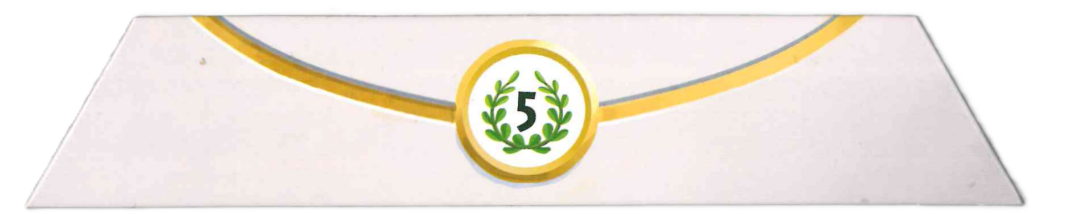
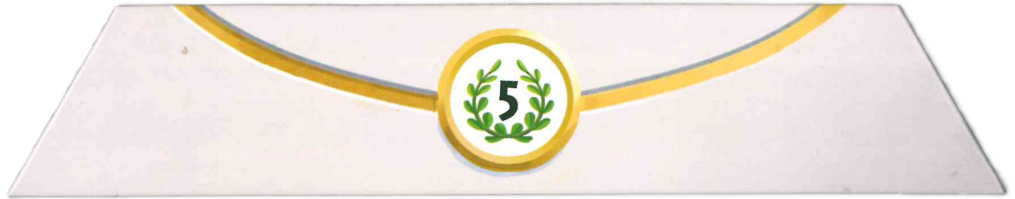
cambios de diseño en la reliquia (tamaños y proporciones)

diff --git a/TFG_FranciscoCarreroCarrero_7WondersArchitects/Presentation/MainPage.xaml b/TFG_FranciscoCarreroCarrero_7WondersArchitects/Presentation/MainPage.xaml
@@ -99,18 +99,17 @@
                                  HorizontalOptions="Center"
                                  Margin="0,25,0,20">
 
-                <Image x:Name="Parte5Reliquia" Source="guiza/maravilla/guiza4a.png" WidthRequest="60"  Aspect="AspectFit"/>
-                <Image x:Name="Parte4Reliquia" Source="guiza/maravilla/guiza3a.png" WidthRequest="130" Aspect="AspectFit"/>
-                <Image x:Name="Parte3Reliquia" Source="guiza/maravilla/guiza2a.png" WidthRequest="160" Aspect="AspectFit"/>
-                <Image x:Name="Parte2Reliquia" Source="guiza/maravilla/guiza1a.png" WidthRequest="200" Aspect="AspectFit"/>
-                <Image x:Name="Parte1Reliquia" Source="guiza/maravilla/guiza0a.png" WidthRequest="250" Aspect="AspectFit"/>
+                <Image x:Name="Part5Relic" Source="guiza/maravilla/guiza4a.png" WidthRequest="60"  Aspect="AspectFit"/>
+                <Image x:Name="Part4Relic" Source="guiza/maravilla/guiza3a.png" WidthRequest="105" Aspect="AspectFit"/>
+                <Image x:Name="Part3Relic" Source="guiza/maravilla/guiza2a.png" WidthRequest="155" Aspect="AspectFit"/>
+                <Image x:Name="Part2Relic" Source="guiza/maravilla/guiza1a.png" WidthRequest="205" Aspect="AspectFit"/>
+                <Image x:Name="Part1Relic" Source="guiza/maravilla/guiza0a.png" WidthRequest="250" Aspect="AspectFit"/>
 
 
             <Button Text="mazoPropio"
                 Grid.Row="2"
                 Grid.ColumnSpan="3"
                 VerticalOptions="End"
-                Margin="0"
                 Clicked="ButtonShowPlayerDeck" />
             </VerticalStackLayout>
         </Grid>

diff --git a/TFG_FranciscoCarreroCarrero_7WondersArchitects/Presentation/MainPage.xaml.cs b/TFG_FranciscoCarreroCarrero_7WondersArchitects/Presentation/MainPage.xaml.cs
@@ -128,23 +128,23 @@ namespace TFG_FranciscoCarreroCarrero_7WondersArchitects
             if (puedeConstruir) {
                 switch (etapaConstruccion) {
                     case 0:
-                        Parte1Reliquia.Source = "guiza/maravilla/guiza0b.png";
+                        Part1Relic.Source = "guiza/maravilla/guiza0b.png";
                         borrarCartas(2, true, recursoMayor);
                         break;
                     case 1:
-                        Parte2Reliquia.Source = "guiza/maravilla/guiza1b.png";
+                        Part2Relic.Source = "guiza/maravilla/guiza1b.png";
                         borrarCartas(2, false, recursoMayor);
                         break;
                     case 2:
-                        Parte3Reliquia.Source = "guiza/maravilla/guiza2b.png";
+                        Part3Relic.Source = "guiza/maravilla/guiza2b.png";
                         borrarCartas(3, true, recursoMayor);
                         break;
                     case 3:
-                        Parte4Reliquia.Source = "guiza/maravilla/guiza3b.png";
+                        Part4Relic.Source = "guiza/maravilla/guiza3b.png";
                         borrarCartas(3, false, recursoMayor);
                         break;
                     case 4:
-                        Parte5Reliquia.Source = "guiza/maravilla/guiza4b.png";
+                        Part5Relic.Source = "guiza/maravilla/guiza4b.png";
                         borrarCartas(4, true, recursoMayor);
                         break;
                 }
